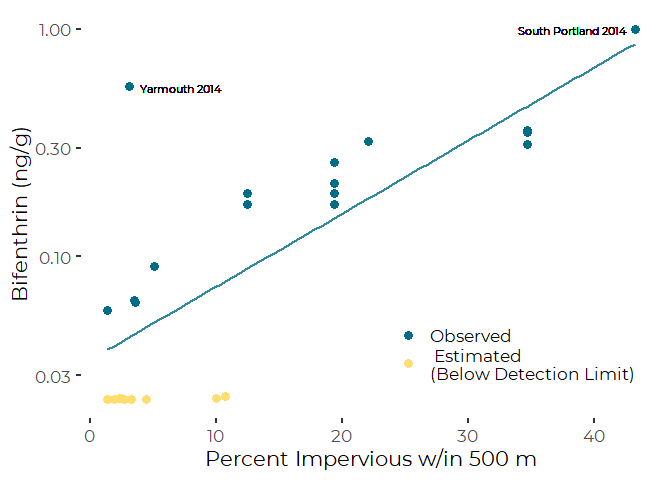
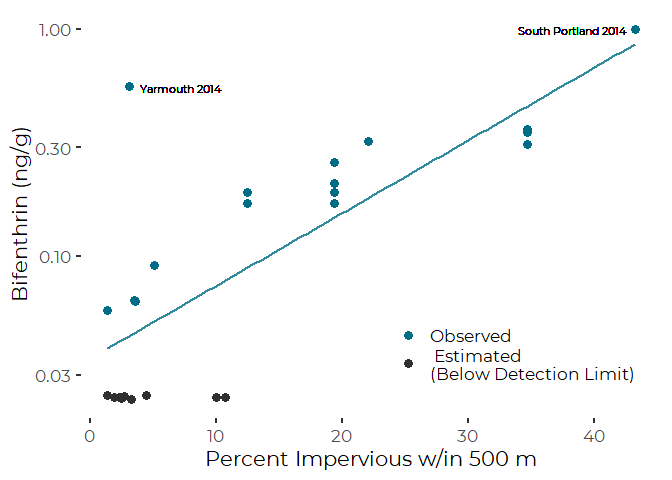
Change Color of non-detects in graphics - -resolve merge conflicts

diff --git a/Graphics/Pesticide_Graphics.md b/Graphics/Pesticide_Graphics.md
@@ -156,7 +156,7 @@ plt <- ggplot(conc_data, aes(pct500, Bifenthrin_ML)) +
   theme_cbep() +
   theme(legend.position=c(0.75, 0.2)) +
   
-  scale_color_manual(values = cbep_colors(), name = '',
+  scale_color_manual(values = cbep_colors()[c(1,3)], name = '',
                      labels = c('Observed', ' Estimated\n(Below Detection Limit)')) +
   scale_y_log10() +
   
@@ -206,19 +206,19 @@ summary(the_lm)
     ## 
     ## Residuals:
     ##      Min       1Q   Median       3Q      Max 
-    ## -0.50209 -0.24093 -0.02212  0.16717  1.10220 
+    ## -0.51488 -0.24020 -0.02192  0.16578  1.10059 
     ## 
     ## Coefficients:
     ##              Estimate Std. Error t value Pr(>|t|)    
-    ## (Intercept) -1.453613   0.097844 -14.856 1.34e-13 ***
-    ## pct500       0.032130   0.005167   6.218 2.00e-06 ***
+    ## (Intercept) -1.451773   0.097766 -14.850 1.35e-13 ***
+    ## pct500       0.032054   0.005163   6.208 2.05e-06 ***
     ## ---
     ## Signif. codes:  0 '***' 0.001 '**' 0.01 '*' 0.05 '.' 0.1 ' ' 1
     ## 
-    ## Residual standard error: 0.3374 on 24 degrees of freedom
+    ## Residual standard error: 0.3371 on 24 degrees of freedom
     ##   (4 observations deleted due to missingness)
-    ## Multiple R-squared:  0.617,  Adjusted R-squared:  0.601 
-    ## F-statistic: 38.66 on 1 and 24 DF,  p-value: 1.999e-06
+    ## Multiple R-squared:  0.6163, Adjusted R-squared:  0.6003 
+    ## F-statistic: 38.54 on 1 and 24 DF,  p-value: 2.047e-06
 
 ### Theil-Sen Resistent Regression
 
@@ -260,16 +260,16 @@ summary(the_mblm)
     ## 
     ## Residuals:
     ##      Min       1Q   Median       3Q      Max 
-    ## -1.49063 -0.88305 -0.40064  0.05394  2.20897 
+    ## -1.51770 -0.87750 -0.40064  0.05394  2.20897 
     ## 
     ## Coefficients:
     ##             Estimate      MAD V value Pr(>|V|)    
-    ## (Intercept) -3.02041  0.15766       0 8.79e-06 ***
-    ## pct500       0.07472  0.01641     348 1.25e-05 ***
+    ## (Intercept) -3.02041  0.15766       0 8.80e-06 ***
+    ## pct500       0.07472  0.02021     348 1.25e-05 ***
     ## ---
     ## Signif. codes:  0 '***' 0.001 '**' 0.01 '*' 0.05 '.' 0.1 ' ' 1
     ## 
-    ## Residual standard error: 0.8523 on 24 degrees of freedom
+    ## Residual standard error: 0.851 on 24 degrees of freedom
 
 ``` r
 cor.test(tmp$pct500,tmp$log_bifenthrin, method = 'kendall')
@@ -282,11 +282,11 @@ cor.test(tmp$pct500,tmp$log_bifenthrin, method = 'kendall')
     ##  Kendall's rank correlation tau
     ## 
     ## data:  tmp$pct500 and tmp$log_bifenthrin
-    ## z = 4.6317, p-value = 3.626e-06
+    ## z = 4.2772, p-value = 1.893e-05
     ## alternative hypothesis: true tau is not equal to 0
     ## sample estimates:
     ##       tau 
-    ## 0.6604473
+    ## 0.6098867
 
 We create a dataframe to pass to ggplot to generate the regression line
 in our plot
@@ -354,16 +354,16 @@ summary(the_mblm)
     ## 
     ## Residuals:
     ##      Min       1Q   Median       3Q      Max 
-    ## -1.48013 -0.34096 -0.07244  0.31063  1.71474 
+    ## -1.47573 -0.35965 -0.08103  0.29195  1.69605 
     ## 
     ## Coefficients:
     ##             Estimate     MAD V value Pr(>|V|)    
-    ## (Intercept)  2.05520 0.17771     351 2.98e-08 ***
-    ## pct500       0.06177 0.01462     350 5.96e-08 ***
+    ## (Intercept)  2.07388 0.18424     351 2.98e-08 ***
+    ## pct500       0.06177 0.01463     350 5.96e-08 ***
     ## ---
     ## Signif. codes:  0 '***' 0.001 '**' 0.01 '*' 0.05 '.' 0.1 ' ' 1
     ## 
-    ## Residual standard error: 0.6594 on 24 degrees of freedom
+    ## Residual standard error: 0.6564 on 24 degrees of freedom
 
 ``` r
 cor.test(tmp$pct500,tmp$log_bifenthrin_oc, method = 'kendall')
@@ -376,11 +376,11 @@ cor.test(tmp$pct500,tmp$log_bifenthrin_oc, method = 'kendall')
     ##  Kendall's rank correlation tau
     ## 
     ## data:  tmp$pct500 and tmp$log_bifenthrin_oc
-    ## z = 4.3184, p-value = 1.571e-05
+    ## z = 4.2298, p-value = 2.338e-05
     ## alternative hypothesis: true tau is not equal to 0
     ## sample estimates:
     ##       tau 
-    ## 0.6133562
+    ## 0.6007745
 
 We again create a dataframe.
 
